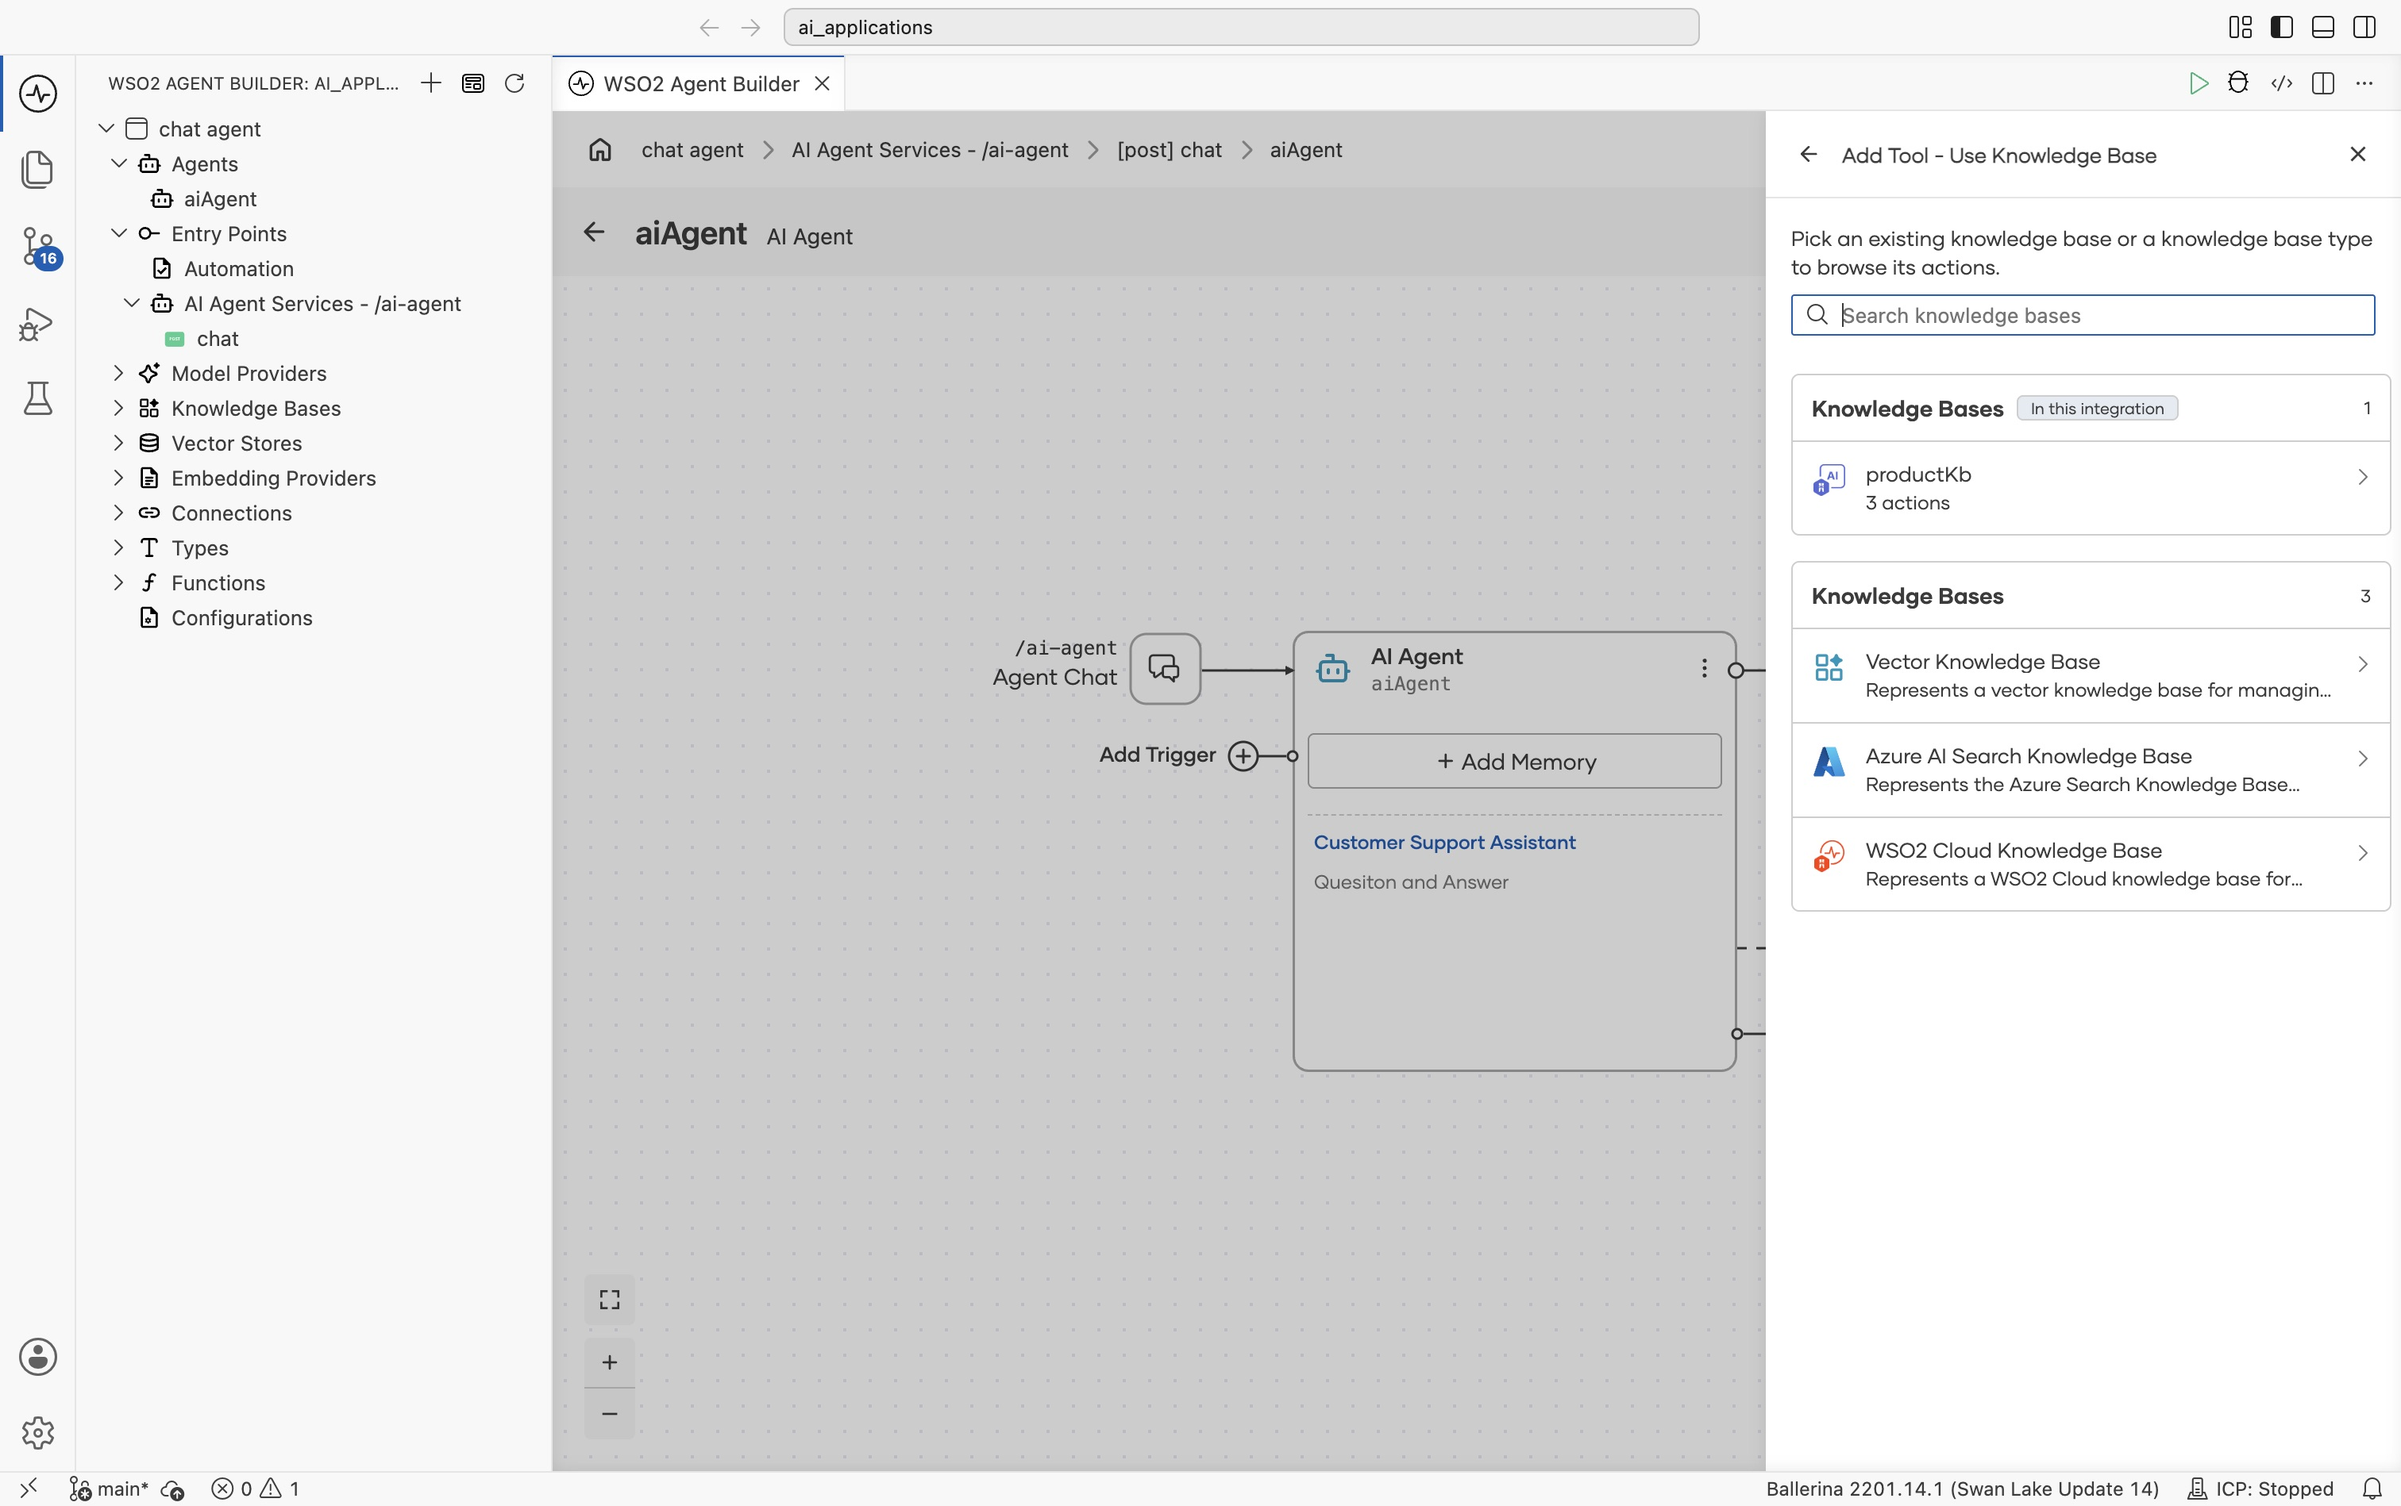
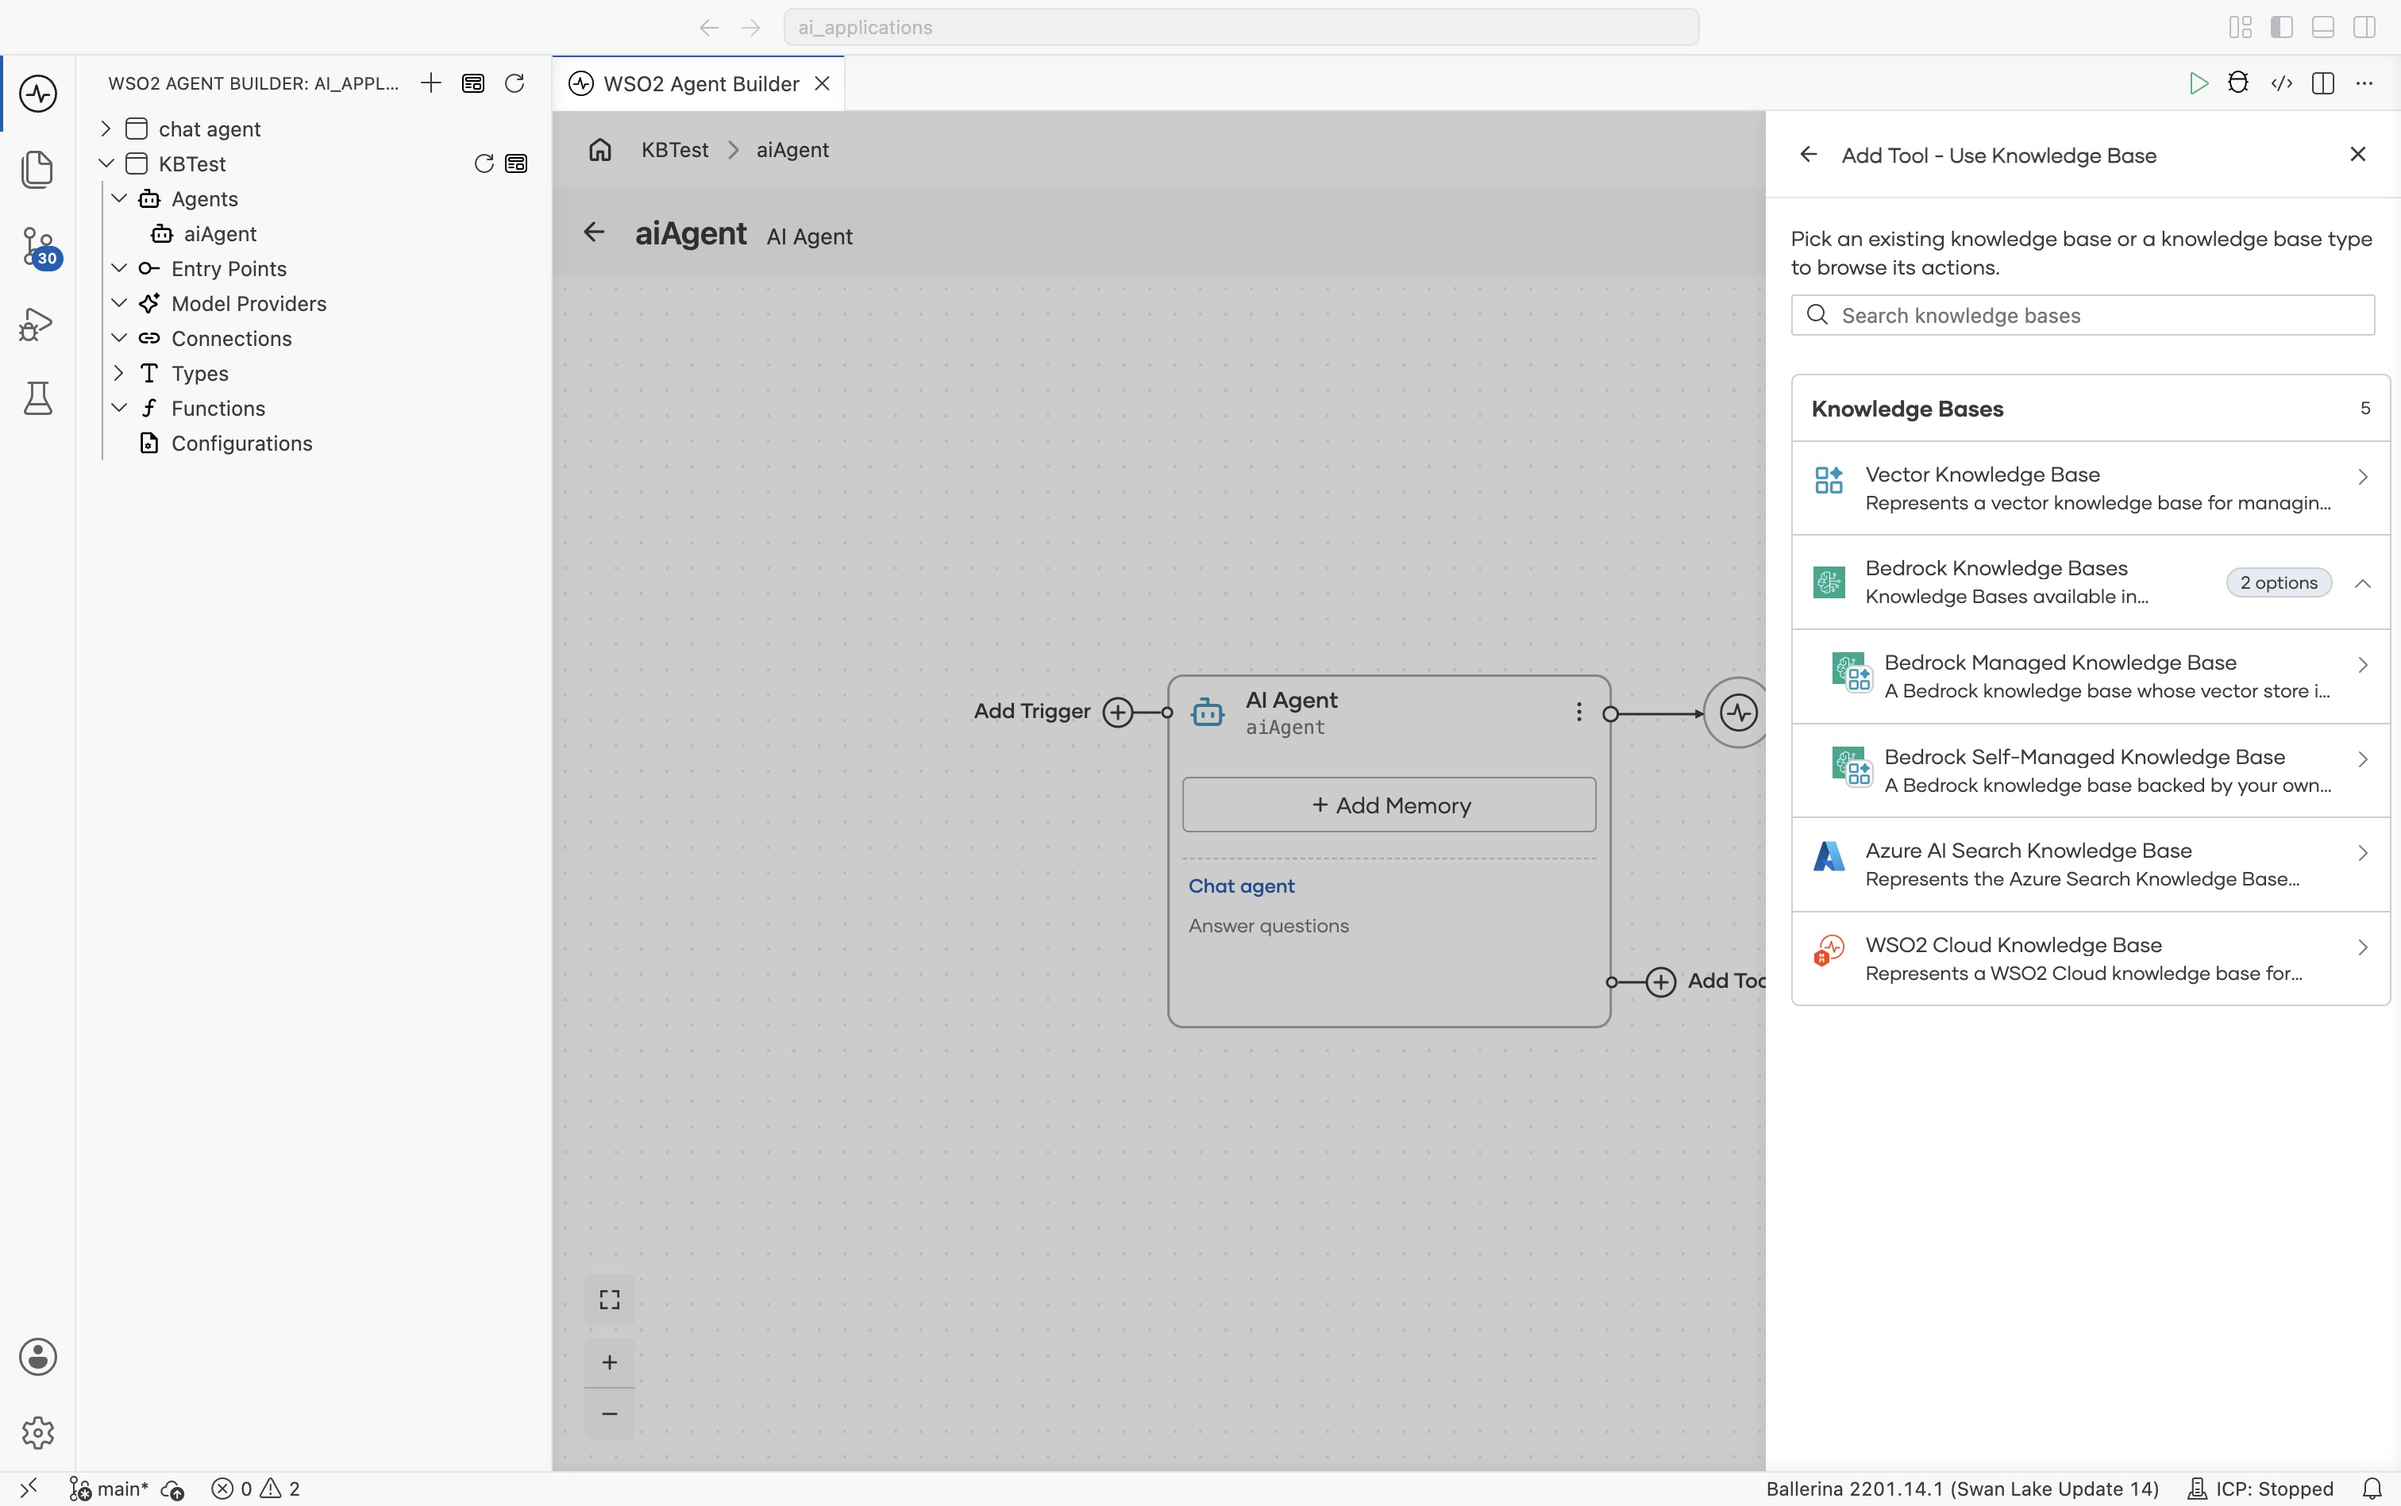
docs: update knowledge base tool UI

diff --git a/en/docs/develop-and-test/integration-artifacts/ai-integrations/agents/tools.md b/en/docs/develop-and-test/integration-artifacts/ai-integrations/agents/tools.md
@@ -31,7 +31,7 @@ To add a tool to an agent, click the **+** button on the **AI Agent** node in th
 This opens the **Add Tool** panel, where you can choose how to add capabilities to the agent.
 
 <ThemedImage
-    alt="The Add Tool panel listing Use Connection, Use Function, Use Agent, Use MCP Server, and Create Custom Tool, each with a one-line description."
+    alt="The Add Tool panel listing Use Connection, Use Function, Use Agent, Use MCP Server, Use Knowledge Base, and Create Custom Tool, each with a one-line description."
     sources={{
         light: useBaseUrl('/img/genai/develop/agents-v5.1/tools/02-add-tool-panel-v5.1.png'),
         dark: useBaseUrl('/img/genai/develop/agents-v5.1/tools/02-add-tool-panel-v5.1.png'),
@@ -46,7 +46,7 @@ The following tool integration options are available:
 | **Use Function** | Expose an existing project function or standard library function as an agent tool. |
 | **Use Agent** | Delegate to another agent, wrapped as a tool, so this agent can hand off requests and use the response. |
 | **Use MCP Server** | Connect to tools hosted on a remote MCP server, including custom, community, or SaaS MCP endpoints. |
-| **Use Knowledge Base** | Wrap a knowledge base action as a tool so the agent can retrieve relevant content or ingest documents. |
+| **Use Knowledge Base** | Give the agent a Retrieve tool for an existing or newly created knowledge base. |
 | **Create Custom Tool** | Define a new tool by specifying its name, description, parameters, and return type directly from the UI. |
 
 Each option opens a dedicated configuration panel for setting up the selected tool type.
@@ -207,14 +207,14 @@ After saving, every tool exposed by the MCP server, or every tool selected in **
 Selecting **Use Knowledge Base** lets you choose an existing knowledge base in the integration or browse the available knowledge base types.
 
 <ThemedImage
-    alt="The Add Tool - Use Knowledge Base picker in WSO2 Agent Builder. It lists productKb from the current integration and the available Vector Knowledge Base, Azure AI Search Knowledge Base, and WSO2 Cloud Knowledge Base types."
+    alt="The Add Tool - Use Knowledge Base picker listing Vector Knowledge Base, Bedrock Managed Knowledge Base, Bedrock Self-Managed Knowledge Base, Azure AI Search Knowledge Base, and WSO2 Cloud Knowledge Base."
     sources={{
         light: useBaseUrl('/img/genai/develop/agents-v5.1/tools/17-use-knowledge-base-picker-v5.1.png'),
         dark: useBaseUrl('/img/genai/develop/agents-v5.1/tools/17-use-knowledge-base-picker-v5.1.png'),
     }}
 />
 
-After you select a knowledge base, select the action to expose to the agent. The available actions depend on the knowledge base implementation and can include retrieving relevant content or ingesting documents.
+After you select a knowledge base, select its **Retrieve** action to expose it to the agent.
 
 For example, selecting **Retrieve** on a Vector Knowledge Base opens the following tool configuration:
 
@@ -236,7 +236,7 @@ For example, selecting **Retrieve** on a Vector Knowledge Base opens the followi
 | **OAuth Client Configuration** | No | OAuth client settings when the knowledge base action requires them. |
 | **Result Type** | No | The Ballerina type returned by the selected action. |
 
-After saving, the selected knowledge base action becomes available to the agent as a tool. See [Knowledge Bases](../ai-building-blocks/knowledge-bases.md) for the supported knowledge base types and their actions.
+After saving, the knowledge base's **Retrieve** action becomes available to the agent as a tool. See [Knowledge Bases](../ai-building-blocks/knowledge-bases.md) for the supported knowledge base types and their configuration fields.
 
 ## 6. Create custom tool
 
